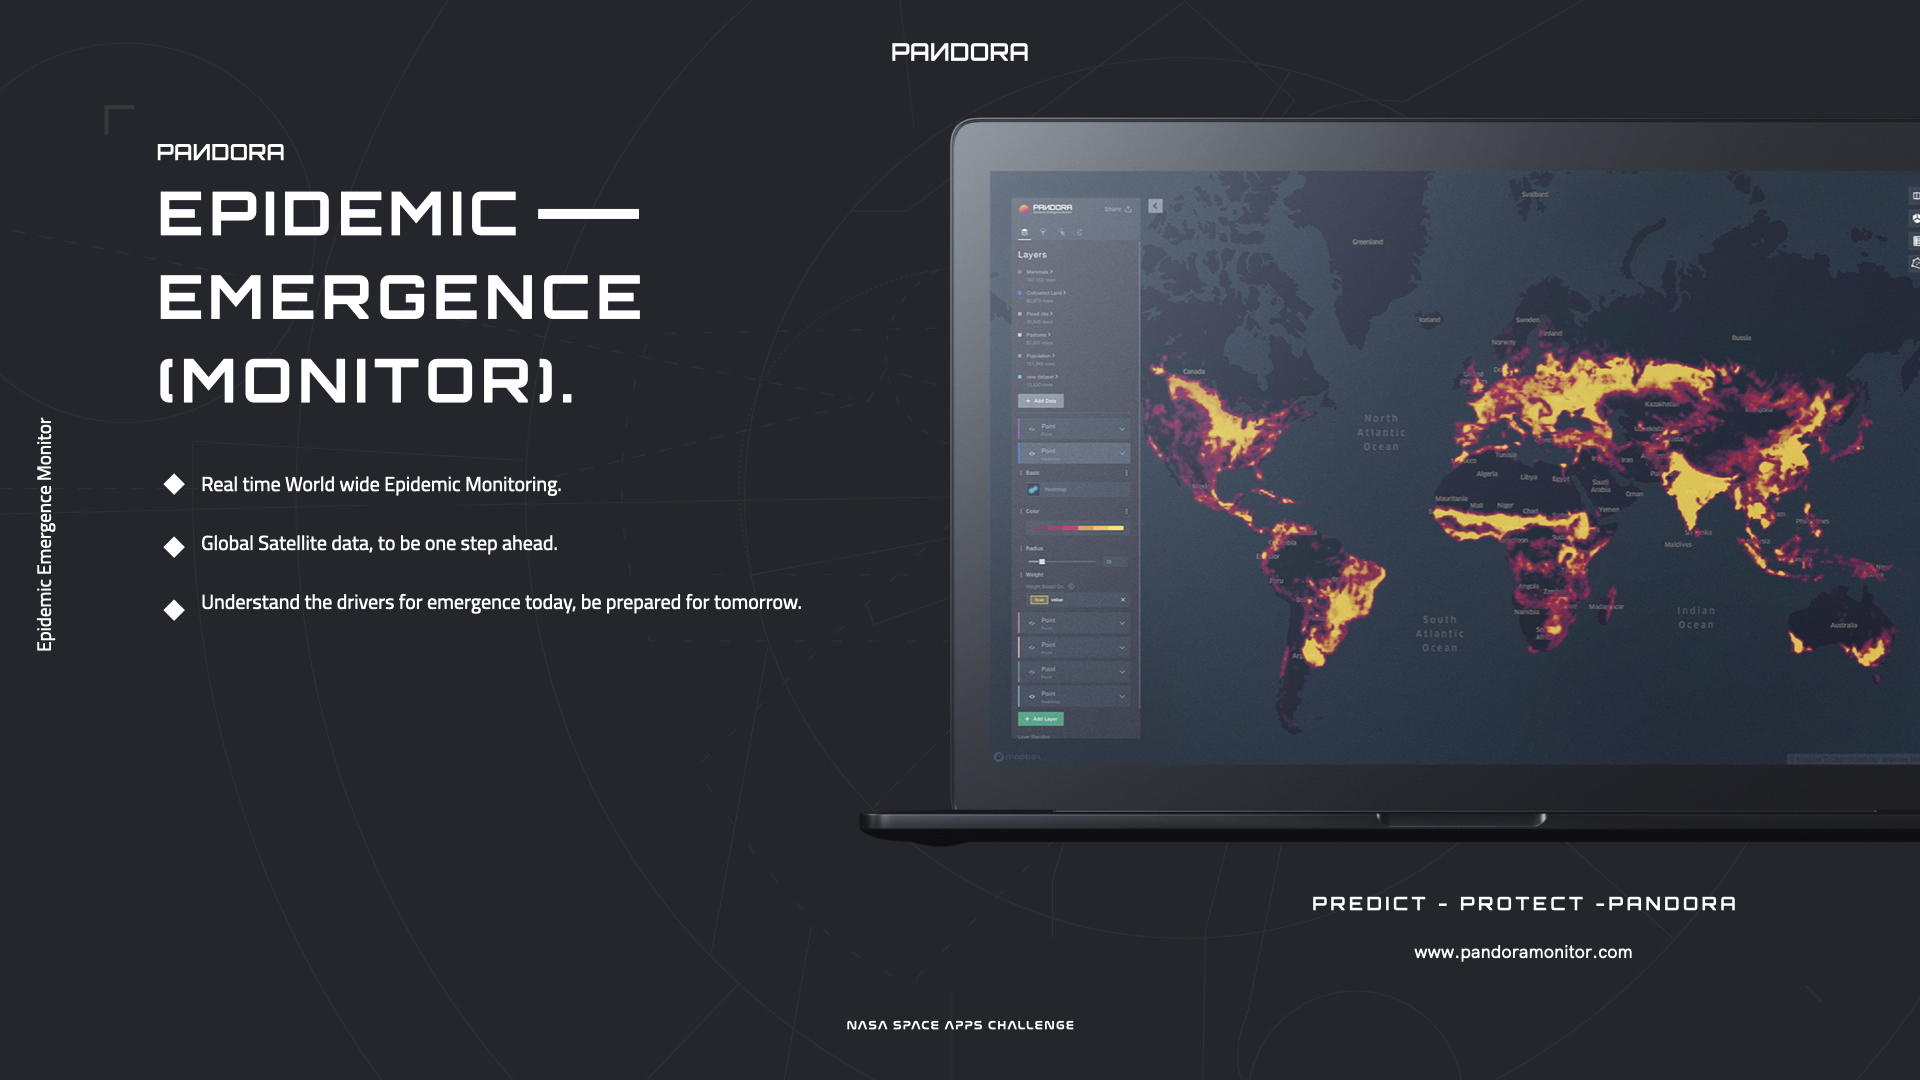
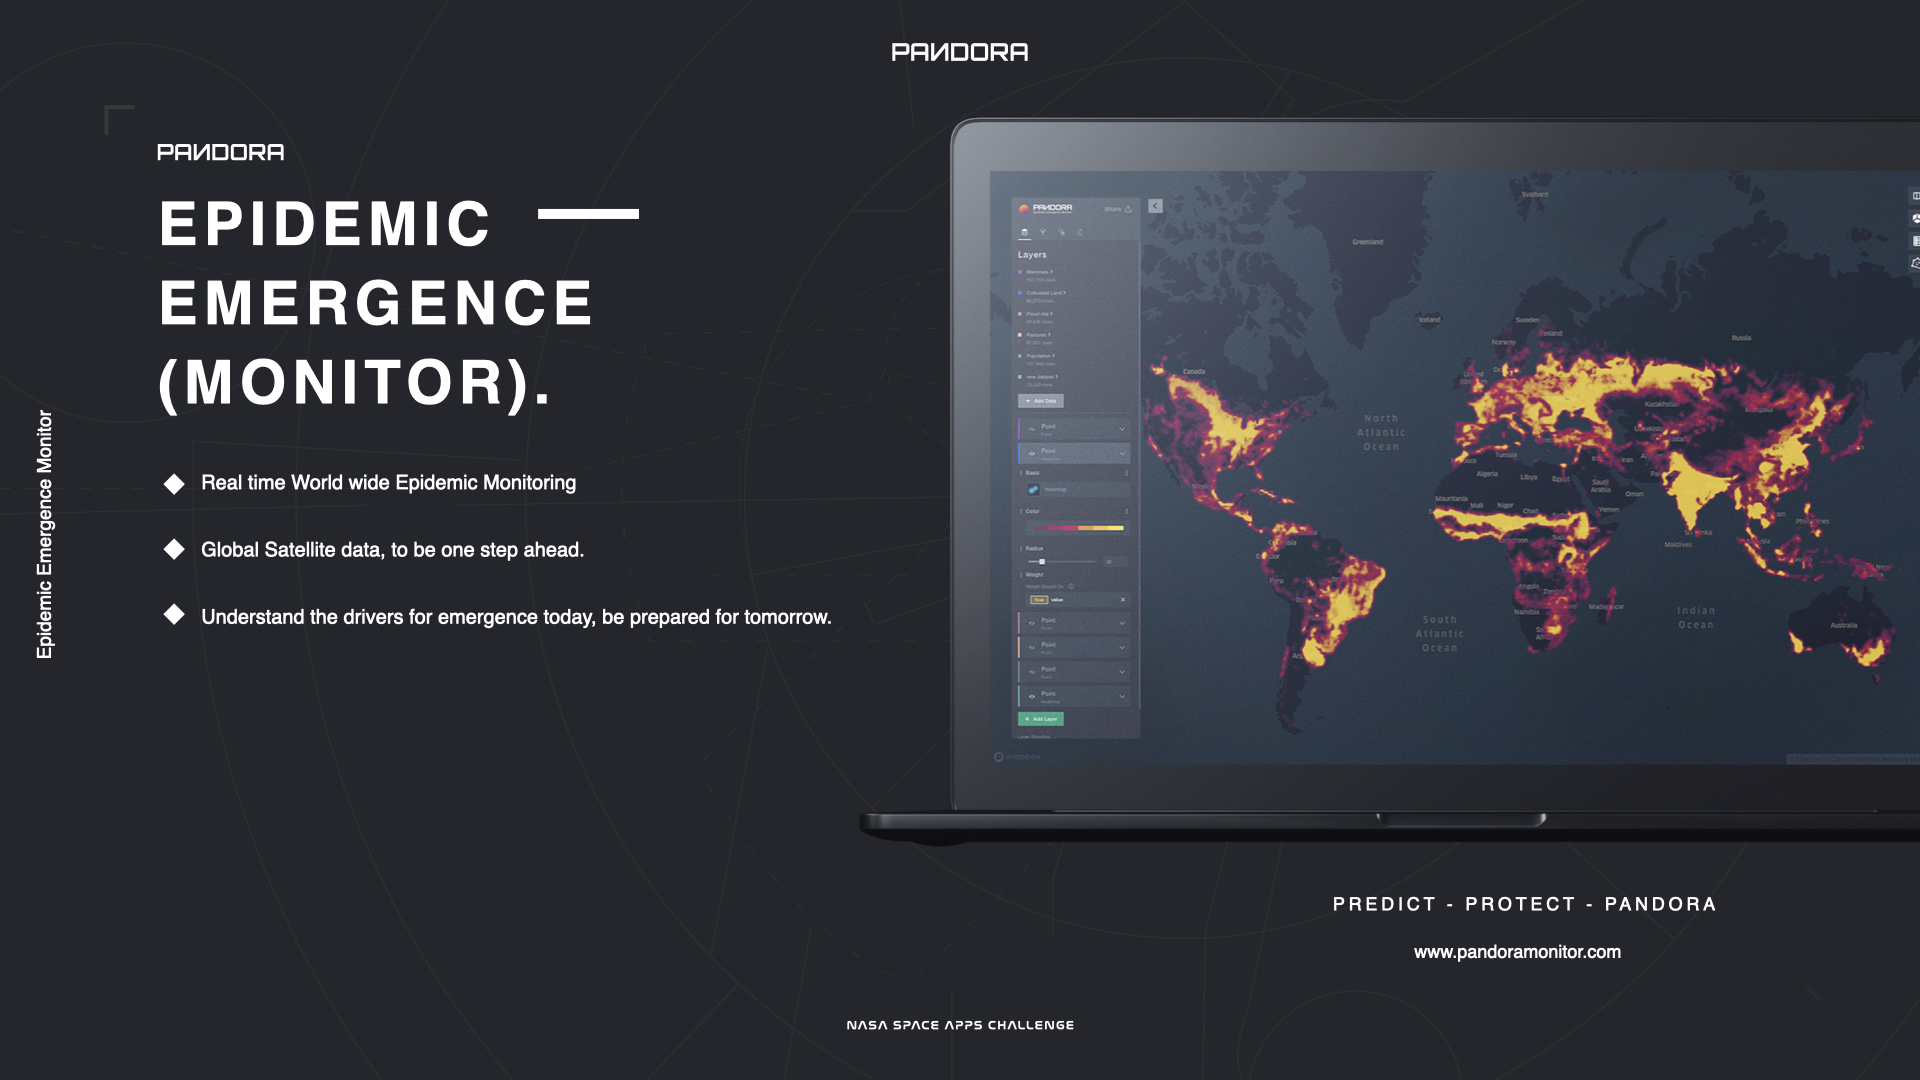
feat: new keynote

diff --git a/README.md b/README.md
@@ -2,7 +2,9 @@
 
 Repository for [Team Pandora](https://covid19.spaceappschallenge.org/challenges/covid-challenges/human-factors/teams/pandora/project) at the Space Apps COVID-19 Challenge (May 2020).
 
-![Figure 1](img/NASA_001.png)
+Predict - Protect - Pandora
+
+![Figure 1](img/NASA_001.jpeg)
 
 # Video
 
@@ -25,7 +27,7 @@ A successful **model for epidemics prediction** should take into consideration h
 2. The process by which the contagion context varies from no human infection to a localised human infection is called introduction and gives rise to stage 2. Depending on the viral ability for a sustained infection in humans and the contact frequency such humans have within the virus, the contagion curve can expand in a process called dissemination. 
 3. The rapidity and efficiency of the process relies upon factors that determine the sustainability of the infection. Once the virus is disseminated, contagion context moves to stage 3 where large population groups are infected, there is widespread transmission. To which extent this phenomena of global dissemination can occur depends on the host immunity status, age and other genetic factors. 
 
-![Figure 1](img/NASA_002.png)
+![Figure 1](img/NASA_002.jpeg)
 
 The key steps in the progression of contagion are the introduction (stage 1 to stage 2) and dissemination (stage 2 to stage 3). When addressing the introduction step, the model needs to address the fundamental role of pathogens biology in emergence. It refers to the number and the kind of pathogens people are exposed to but also which and how these can successfully cross the species barrier and further counteract humans immunity. Given the obvious rapid variation of these parameters, it is challenging to monitor every single one of them and a complete compilation of pathogens that have been able to cross the species barrier is not available. 
 
@@ -38,7 +40,7 @@ Invertebrates play a role as reservoirs, vectors, or as part of the life cycle o
 
 Another important factor to take into consideration is the nature of stage 2 in epidemic emergence. Certain viruses do not require undergoing stage 2 because their capacity to infect humans becomes very successful. In such cases, once the virus has evolved to colonise humans, the contagion spreads rapidly instead of remaining in localised hotspots for a period.  It was the case for ebola virus versus SARS-CoV-2, where the former efficiently acquired the ability to infect humans and did not remain in a single contagion area for long. (FIG. 2)
 
-![Figure 1](img/NASA_003.png)
+![Figure 1](img/NASA_003.jpeg)
 
 # The Solution
 
@@ -49,7 +51,7 @@ The drivers of emergence can be classified into three groups: ecological, enviro
 Pandora has developed the Epidemic Emergence Monitor (EEM). EEM integrates space-based assets from NASA, ESA, CNES, as well as land-based infrastructure to monitor the drivers of emergence, those parameters affecting the risk of epidemic emergence across the globe. EEM constitutes a bespoke resource for improving public health by enabling collaboration between governments, corporations, and researchers.
 
 
-![Figure 1](img/NASA_004.png)
+![Figure 1](img/NASA_004.jpeg)
 
 EEM focuses on the progression from introduction of a pathogen to its dissemination globally (stage 1 progression to stage 3, either in the presence or absence of stage 2). It leaves behind stage 1 as Biology appropriately studies this and stage 3 as how the pathogens disseminate globally is deeply studied with various and precise mathematical models. The gap in the state of the art is therefore in the transition from one to another, coincidentally, where drivers of emergence matter particularly. In that regard, EEM integrates data sources that gather positional information on key drivers of emergence such as deforestation, land use, urban and rural clusters, etc. The underlying principle to incorporating the drivers of emergence is the fundamental base of epidemic emergence: if natural barriers are removed or significantly modified due to the anthropogenic effect (extensive fires, deforestation, land repurposing, massive farming, etc), this allows primary hosts to become closer to humans and eventually, should selective pressure, genetic drift or further adaptation allows so, the pathogen can colonize humans: a new potential epidemic can emerge. 
 
@@ -59,8 +61,6 @@ Monitoring drivers of emergence is therefore of vital importance in order to pre
 # PANDORA MONITOR
 
 ![Figure 1](img/NASA_005.jpeg)
-
-Predict - Protect - Pandora
 
 # The Team
 
